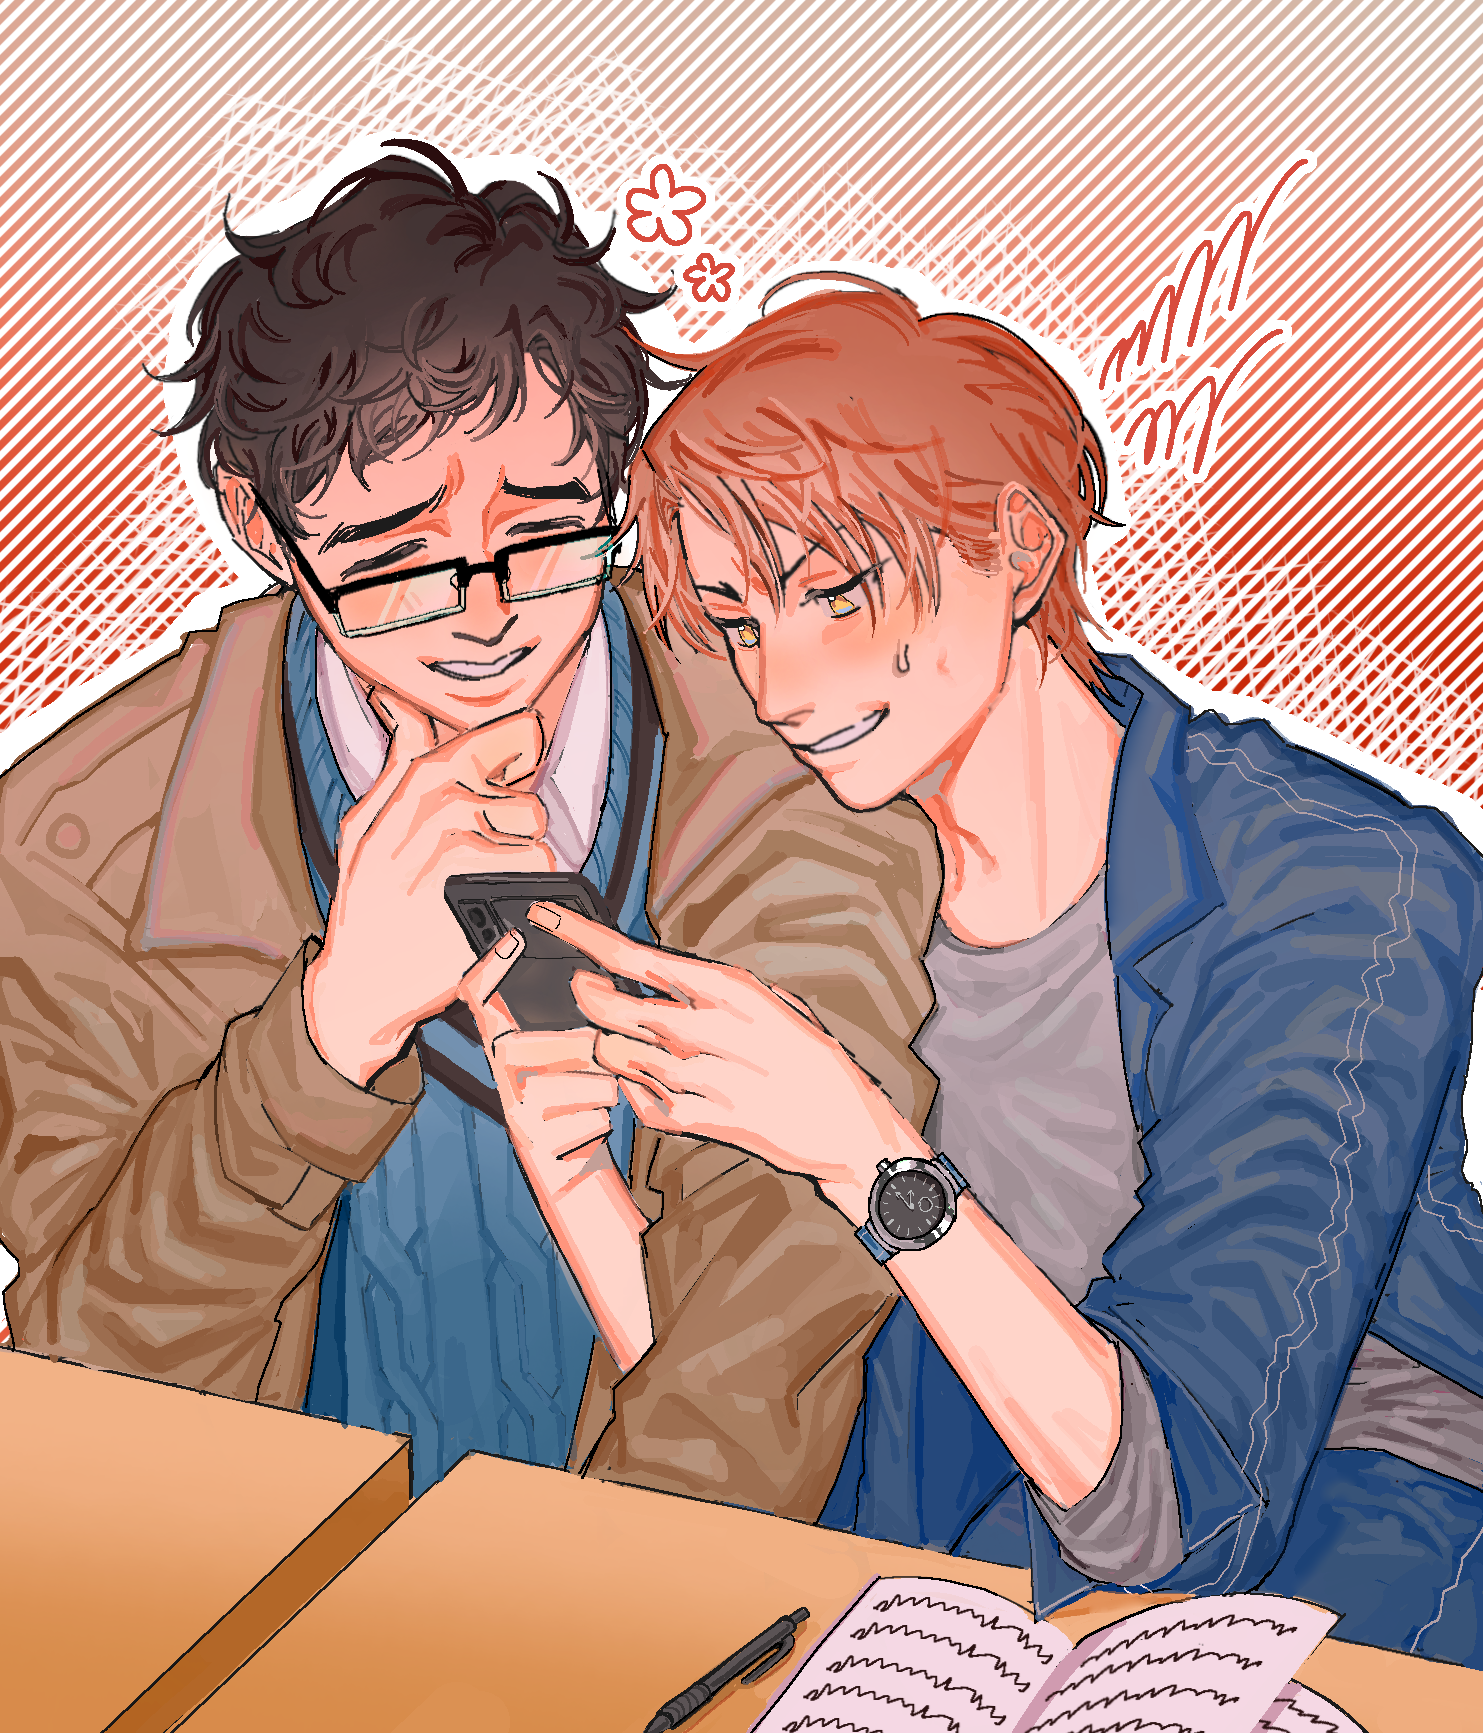
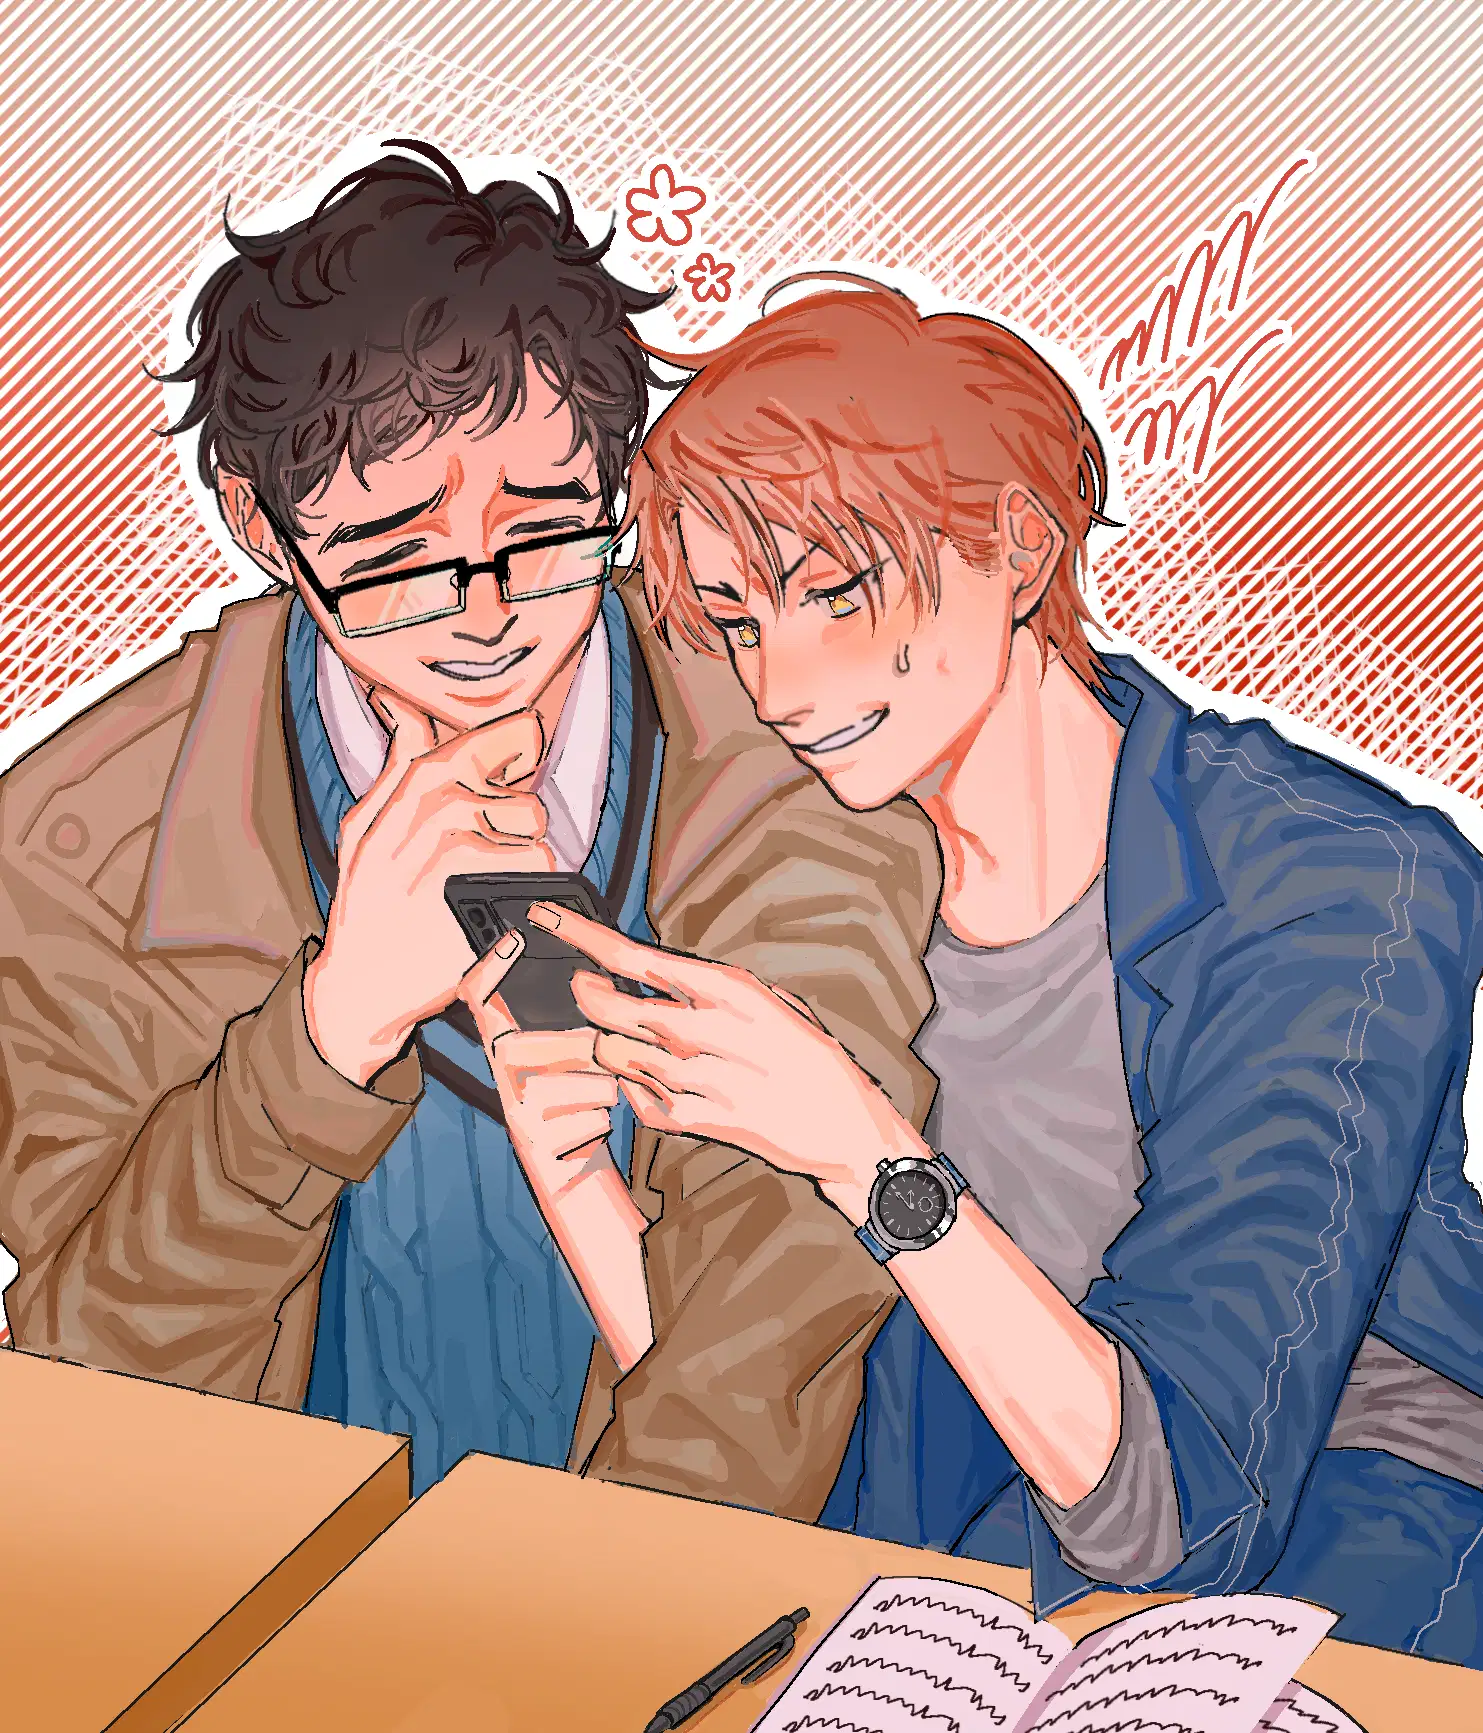
feat: compress images for improved loading times

diff --git a/fandom.html b/fandom.html
@@ -113,9 +113,8 @@
         <p>
           08.03.2026: In short, this novel is abbreviated into "gsgw" by
           English-speaking fandom, heavily influenced by SCP Foundation setting.
-          Readers who liked Omniscient Reader's Viewpoint can immediately see
-          the similarities between Kim Dokja (ORV's MC) and Kim Soleum (gsgw's
-          MC). I enjoyed this novel more than ORV though. Kim Soleum is a reader
+          Readers who liked <a href="https://omniscient-readers-viewpoint.fandom.com/wiki/Omniscient_Reader%E2%80%99s_Viewpoint_Wiki">Omniscient Reader's Viewpoint</a> can immediately see
+          the similarities between Kim Dokja and Kim Soleum. I enjoyed this novel more than ORV though. Kim Soleum is a reader
           and writer who immersed himself in Dark Exploration Records—akin to
           creepypasta wiki, before he wakes up in alternate universe.
         </p>

diff --git a/index.html b/index.html
@@ -53,7 +53,8 @@
         </center>
       <div class="main-s">
         <h3>Changelog</h3>
-        <p>14.03.2026: Add link page, move guestbook. Adjust color scheme.</p>
+        <p>14.03.2026: Add link page, move guestbook. Adjust color scheme. Compress images (more).</p>
+        <hr>
         <p>13.03.2026: Site moved, now privately hosted by my boyfriend :) We
           shared domain too.
         </p>
